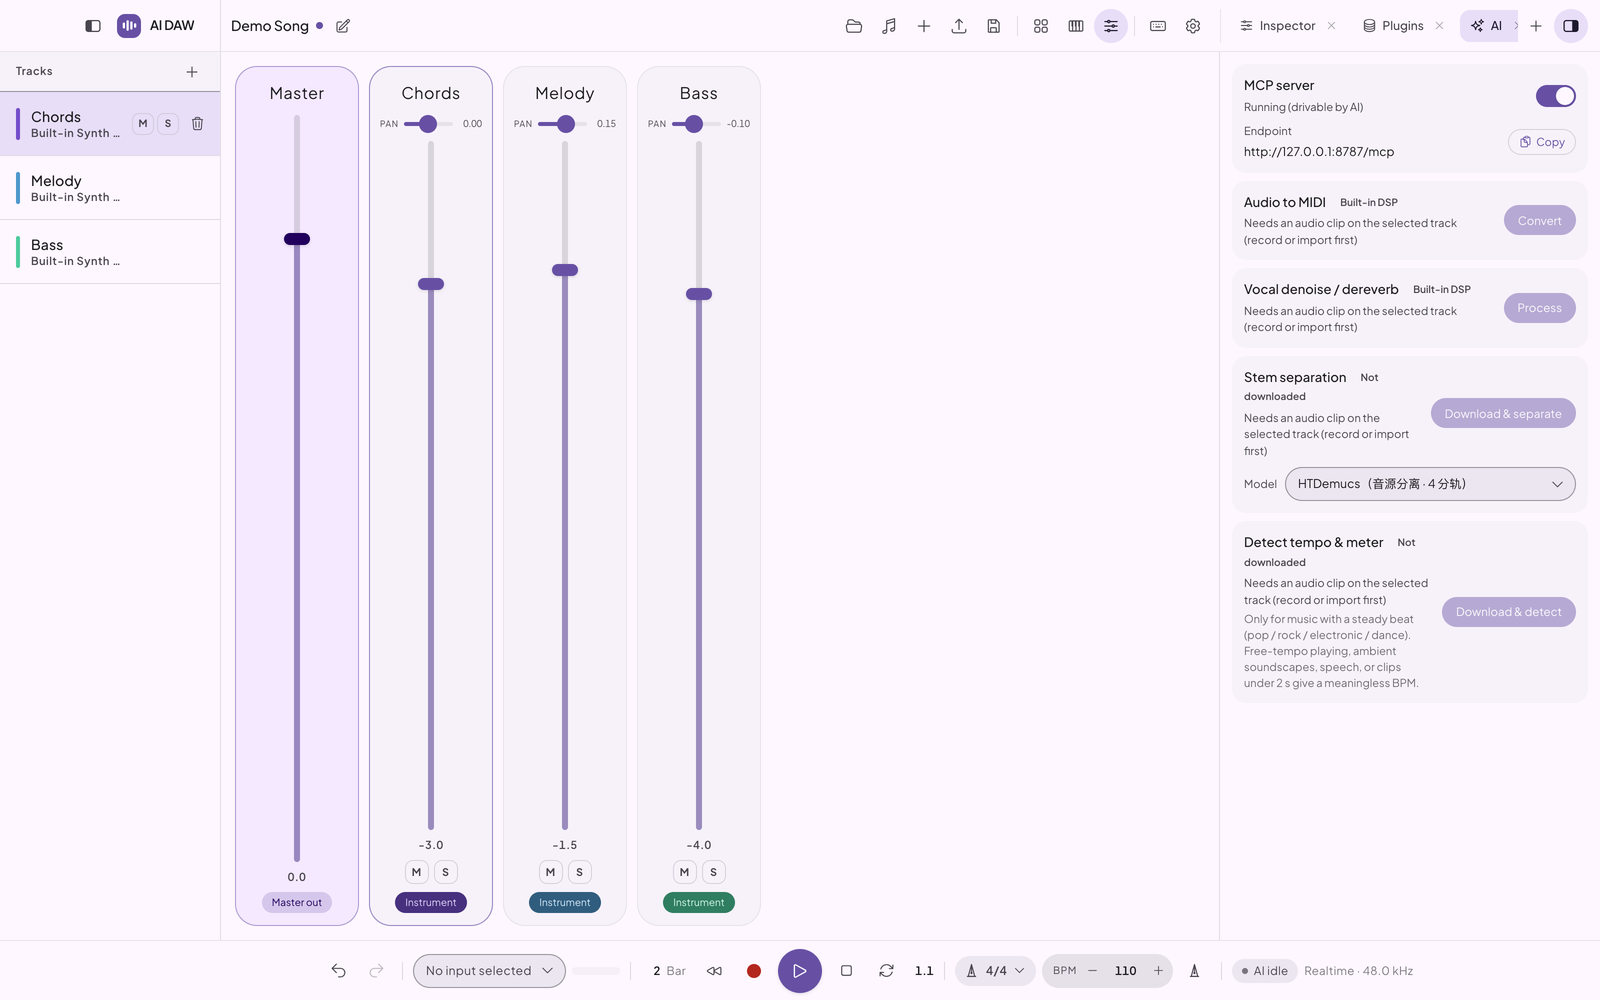
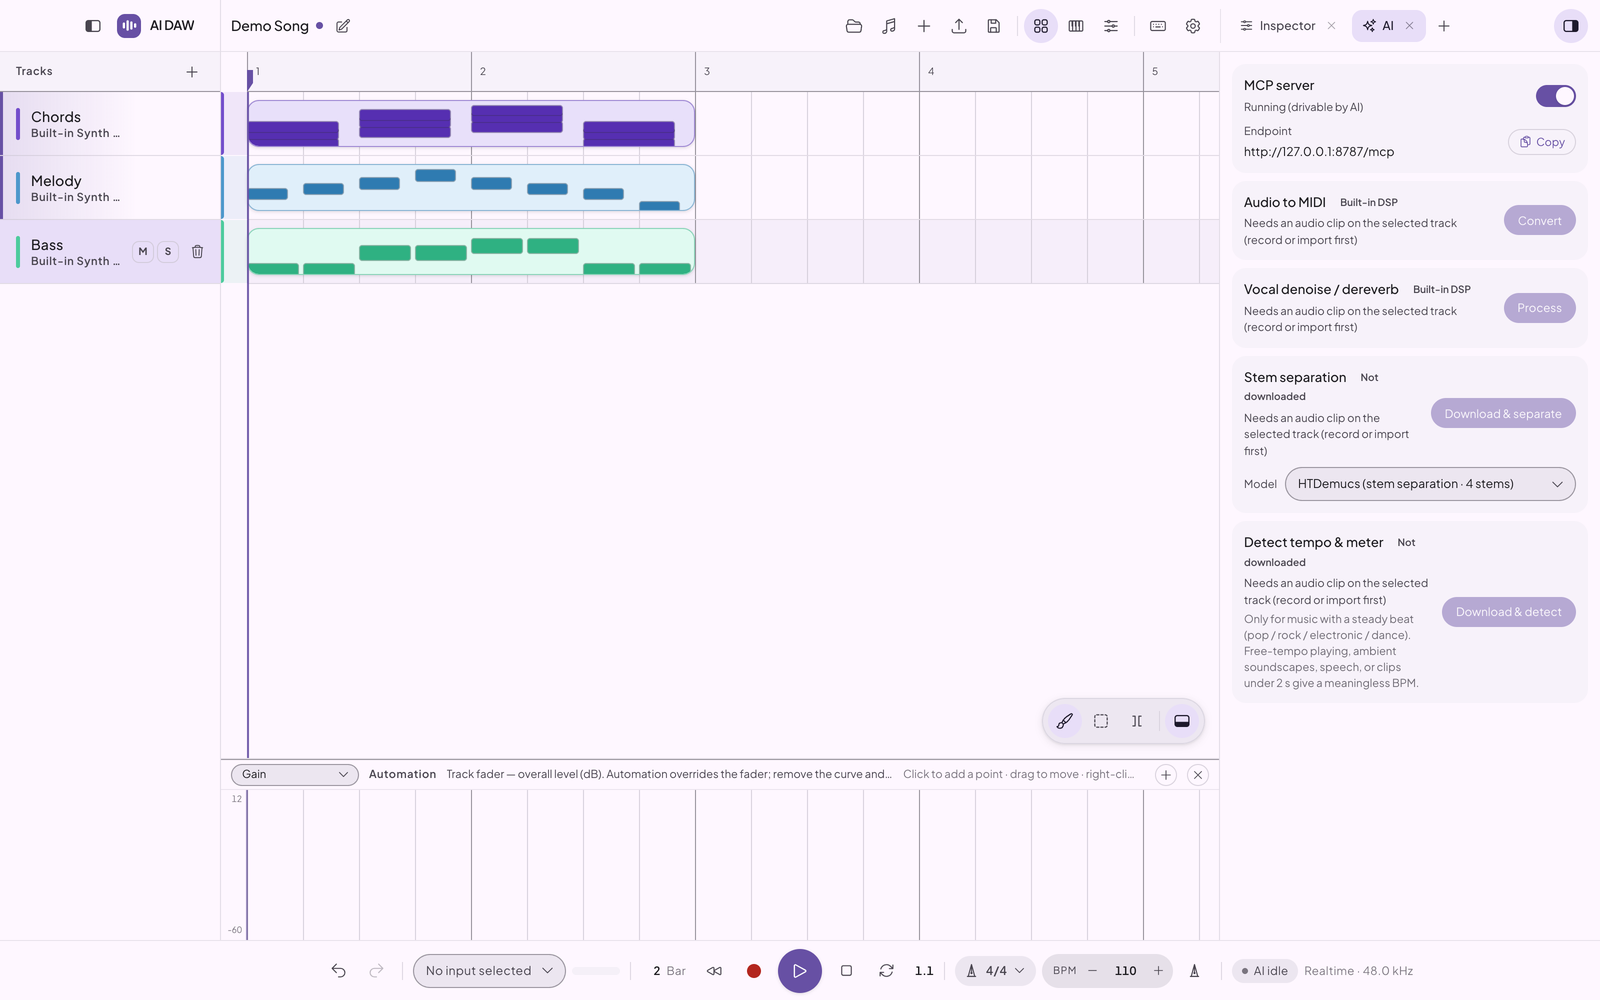
feat(i18n): 模型名与执行后端文案随语言切换；版本升至 1.0.0
- 修复 i18n 缺口：AI 模型清单与执行后端的显示名 / 说明此前只有中文（后端目录
  `local-ai::models::catalog` 与 `backend::catalog` 里写死），英文界面下会露出中文。
  现在按 id / kind 走 i18n，词典里缺词条时回退到后端下发的文案：
  - `src/utils/models.ts` 新增 `modelName()`；AiPanel 与 ManagerPane 改用它
    （「可下载」的搜索也按显示名匹配，英文名能搜到）
  - 设置页新增 `backendText()`，后端 label / note 走 i18n
  - `en.ts` / `zh.ts` 补 `model.*` 与 `backend.*` 词条
- 版本 0.1.0 → 1.0.0：package.json、tauri.conf.json、两个 Cargo.toml、设置页「关于」、
  README 徽章（中英）；两份 Cargo.lock 同步（仅版本号变化）
- 发布工作流改为 tag 推送即直接发布（draft: false）
- 重拍 05-ai-panel / 06-settings-ai-mcp：原先露出的中文模型名与后端说明已消失

diff --git a/src/components/workspace/panes/ManagerPane.vue b/src/components/workspace/panes/ManagerPane.vue
@@ -27,7 +27,7 @@ import { useLayoutStore } from "@/stores/layout";
 import { useI18n } from "@/i18n";
 import { pickPluginToImport } from "@/api/dialogs";
 import { copyText } from "@/utils/clipboard";
-import { humanSize, missingBytes } from "@/utils/models";
+import { humanSize, missingBytes, modelName } from "@/utils/models";
 import type {
   ManagerFile,
   ManagerInstalled,
@@ -183,7 +183,7 @@ const available = computed<ManagerPlugin[]>(() => {
 const visibleModels = computed(() => {
   if (kindFilter.value === "instrument" || kindFilter.value === "effect") return [];
   const q = query.value.trim().toLowerCase();
-  return models.catalog.filter((m) => !q || m.name.toLowerCase().includes(q));
+  return models.catalog.filter((m) => !q || modelName(m).toLowerCase().includes(q));
 });
 
 /** 「可下载」的计数（插件 + 模型）。 */
@@ -230,7 +230,7 @@ function installedFilterLabel(k: InstalledFilter): string {
 const visibleInstalledModels = computed(() => {
   if (installedFilter.value === "instrument" || installedFilter.value === "effect") return [];
   const q = installedQuery.value.trim().toLowerCase();
-  return models.catalog.filter((m) => m.installed && (!q || m.name.toLowerCase().includes(q)));
+  return models.catalog.filter((m) => m.installed && (!q || modelName(m).toLowerCase().includes(q)));
 });
 
 /** 已安装的插件（按筛选与搜索过滤）。
@@ -401,7 +401,7 @@ async function doRemoveModel(id: string): Promise<void> {
         >
           <div class="card-main">
             <div class="card-top">
-              <span class="card-name">{{ m.name }}</span>
+              <span class="card-name">{{ modelName(m) }}</span>
               <span class="badge">{{ i18n.t("manager.kindModel") }}</span>
               <span v-if="m.bundled" class="badge local">{{ i18n.t("manager.modelBundled") }}</span>
               <span v-else class="badge installed">{{ i18n.t("manager.modelInstalled") }}</span>
@@ -635,7 +635,7 @@ async function doRemoveModel(id: string): Promise<void> {
           :class="{ busy: models.installing(m.id) }"
         >
           <div class="card-top">
-            <span class="card-name">{{ m.name }}</span>
+            <span class="card-name">{{ modelName(m) }}</span>
             <span class="badge">{{ i18n.t("manager.kindModel") }}</span>
             <span v-if="m.bundled" class="badge local">{{ i18n.t("manager.modelBundled") }}</span>
             <span v-else-if="m.installed" class="badge installed">

diff --git a/src/views/SettingsView.vue b/src/views/SettingsView.vue
@@ -64,7 +64,7 @@ const SOURCE_PREFS: { id: ModelSourcePreference; labelKey: string }[] = [
   { id: "domestic", labelKey: "settings.store.sourceCn" },
 ];
 
-const APP_VERSION = "0.1.0";
+const APP_VERSION = "1.0.0";
 
 const router = useRouter();
 const active = ref<Section>("general");
@@ -274,9 +274,23 @@ async function loadStoreNetwork(): Promise<void> {
 const backendInfo = ref<BackendInfo | null>(null);
 const backendSaving = ref(false);
 const availableBackends = computed(() => backendInfo.value?.options.filter((o) => o.available) ?? []);
-const backendNote = computed(
-  () => backendInfo.value?.options.find((o) => o.kind === backendInfo.value?.preference)?.note ?? "",
-);
+
+/**
+ * 执行后端的文案。
+ *
+ * 后端目录（`local-ai::backend::catalog`）里的 `label` / `note` 只有中文；这里按 `kind` 取
+ * i18n 文案，英文界面才不会是中文。词典里没有该 kind 时回退到后端下发的那份文案。
+ */
+function backendText(kind: string, field: "label" | "note", fallback: string): string {
+  const key = field === "note" ? `backend.${kind}.note` : `backend.${kind}`;
+  const text = i18n.t(key);
+  return text === key ? fallback : text;
+}
+
+const backendNote = computed(() => {
+  const current = backendInfo.value?.options.find((o) => o.kind === backendInfo.value?.preference);
+  return current ? backendText(current.kind, "note", current.note) : "";
+});
 
 async function loadBackend(): Promise<void> {
   try {
@@ -800,7 +814,7 @@ onMounted(() => {
                     :disabled="backendSaving"
                     @click="setBackend(o.kind)"
                   >
-                    {{ o.label }}
+                    {{ backendText(o.kind, "label", o.label) }}
                   </button>
                 </div>
               </div>

diff --git a/src/i18n/en.ts b/src/i18n/en.ts
@@ -418,6 +418,20 @@ const en: Record<string, string> = {
   "panes.aiHint": "MCP status and entry points to local AI",
   "panes.manager": "Downloads",
   "panes.managerHint": "Install / import / update / remove plugins & models",
+  // Model catalog entries (backend `local-ai::models::catalog`) are named by id, falling
+  // back to the name the backend sent when there is no translation yet.
+  "model.basic-pitch": "Basic Pitch (audio to MIDI)",
+  "model.localvqe": "LocalVQE (vocal denoise / dereverb)",
+  "model.htdemucs-ort-v1": "HTDemucs (stem separation · 4 stems)",
+  "model.htdemucs-6s": "HTDemucs 6s (stem separation · 6 stems)",
+  "model.beat-this": "Beat This! (tempo / beat detection · final0)",
+  // Execution backends (backend `local-ai::backend::catalog`), same idea.
+  "backend.cpu": "CPU",
+  "backend.cpu.note": "Plain CPU (default, available on every platform)",
+  "backend.coreml": "Apple CoreML",
+  "backend.coreml.note": "Apple Neural Engine / GPU (measured slower than CPU for these small models on this machine)",
+  "backend.directml": "DirectML",
+  "backend.directml.note": "DirectX 12 hardware acceleration (Windows)",
   "ai.mcpServer": "MCP server",
   "ai.mcpOn": "Running (drivable by AI)",
   "ai.mcpOff": "Stopped",

diff --git a/src/i18n/zh.ts b/src/i18n/zh.ts
@@ -417,6 +417,19 @@ const zh: Record<string, string> = {
   "panes.aiHint": "MCP 状态与本地 AI 能力入口",
   "panes.manager": "下载管理器",
   "panes.managerHint": "安装 / 导入 / 更新 / 删除插件与模型",
+  // 模型清单条目（后端 `local-ai::models::catalog`）按 id 取显示名，缺词条时回退后端给的名字。
+  "model.basic-pitch": "Basic Pitch（音频转 MIDI）",
+  "model.localvqe": "LocalVQE（人声降噪 / 去混响）",
+  "model.htdemucs-ort-v1": "HTDemucs（音源分离 · 4 分轨）",
+  "model.htdemucs-6s": "HTDemucs 6s（音源分离 · 6 分轨）",
+  "model.beat-this": "Beat This!（节拍 / 速度检测 · final0）",
+  // 执行后端（后端 `local-ai::backend::catalog`）同理。
+  "backend.cpu": "CPU",
+  "backend.cpu.note": "纯 CPU（默认，全平台可用）",
+  "backend.coreml": "Apple CoreML",
+  "backend.coreml.note": "Apple 神经引擎 / GPU（实测在本机的这些小模型上比 CPU 慢）",
+  "backend.directml": "DirectML",
+  "backend.directml.note": "DirectX 12 硬件加速（Windows）",
   "ai.mcpServer": "MCP 服务器",
   "ai.mcpOn": "运行中（可被 AI 驱动）",
   "ai.mcpOff": "已停止",

diff --git a/src/components/workspace/panes/AiPanel.vue b/src/components/workspace/panes/AiPanel.vue
@@ -26,7 +26,7 @@ import { useLayoutStore } from "@/stores/layout";
 import { useModelsStore } from "@/stores/models";
 import { useI18n } from "@/i18n";
 import { copyText } from "@/utils/clipboard";
-import { humanSize, missingBytes } from "@/utils/models";
+import { humanSize, missingBytes, modelName } from "@/utils/models";
 
 const KIND_MIDI = "to_midi";
 /** 人声降噪 / 去混响：走 LocalVQE 模型。 */
@@ -134,7 +134,7 @@ const sepDownloading = computed(() =>
 const sepOptions = computed(() =>
   separateModels.value.map((m) => ({
     id: m.id,
-    label: m.name,
+    label: modelName(m),
     hint: m.installed
       ? i18n.t("ai.modelReady")
       : i18n.t("ai.modelNeedsDownload", { size: humanSize(m.approx_bytes) }),
@@ -149,7 +149,7 @@ const promptOpen = ref(false);
 const downloadPromptMessage = computed(() => {
   const m = pendingModel.value;
   return m
-    ? i18n.t("dialog.downloadModelMessage", { name: m.name, size: humanSize(missingBytes(m)) })
+    ? i18n.t("dialog.downloadModelMessage", { name: modelName(m), size: humanSize(missingBytes(m)) })
     : "";
 });
 

diff --git a/src/utils/models.ts b/src/utils/models.ts
@@ -1,4 +1,18 @@
 import type { ModelStatus } from "@/api/types";
+import { useI18n } from "@/i18n";
+
+/**
+ * 模型的**显示名**。
+ *
+ * 清单条目由后端的 `local-ai::models::catalog` 下发，那里的 `name` 只有中文；界面按 id 取
+ * i18n 文案，英文界面才不会是中文名。词典里没有该 id（后端加了新模型、词条还没补）时
+ * 回退到后端自己的名字——宁可显示中文，也不要显示成 `model.xxx` 这种键名。
+ */
+export function modelName(model: { id: string; name: string }): string {
+  const key = `model.${model.id}`;
+  const text = useI18n().t(key);
+  return text === key ? model.name : text;
+}
 
 /**
  * 模型条目**还差多少字节**没下载。

diff --git a/README.md b/README.md
@@ -3,7 +3,7 @@
 </p>
 
 <p align="center">
-  <img src="https://img.shields.io/badge/version-0.1.0-1A6CFF?style=flat-square" alt="Version 0.1.0">
+  <img src="https://img.shields.io/badge/version-1.0.0-1A6CFF?style=flat-square" alt="Version 1.0.0">
   <a href="LICENSE"><img src="https://img.shields.io/badge/license-Apache--2.0-1A6CFF?style=flat-square" alt="License: Apache-2.0"></a>
   <img src="https://img.shields.io/badge/platforms-Windows%20/%20macOS%20/%20Linux-1A6CFF?style=flat-square" alt="Platforms: Windows, macOS, Linux">
 </p>

diff --git a/README_zh.md b/README_zh.md
@@ -3,7 +3,7 @@
 </p>
 
 <p align="center">
-  <img src="https://img.shields.io/badge/version-0.1.0-1A6CFF?style=flat-square" alt="版本 0.1.0">
+  <img src="https://img.shields.io/badge/version-1.0.0-1A6CFF?style=flat-square" alt="版本 1.0.0">
   <a href="LICENSE"><img src="https://img.shields.io/badge/license-Apache--2.0-1A6CFF?style=flat-square" alt="许可：Apache-2.0"></a>
   <img src="https://img.shields.io/badge/platforms-Windows%20/%20macOS%20/%20Linux-1A6CFF?style=flat-square" alt="平台：Windows、macOS、Linux">
 </p>
